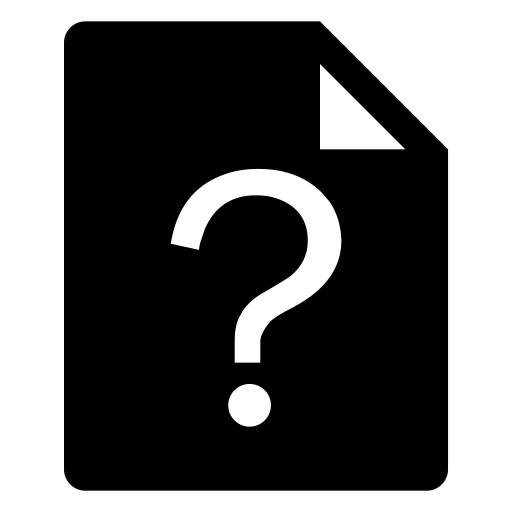
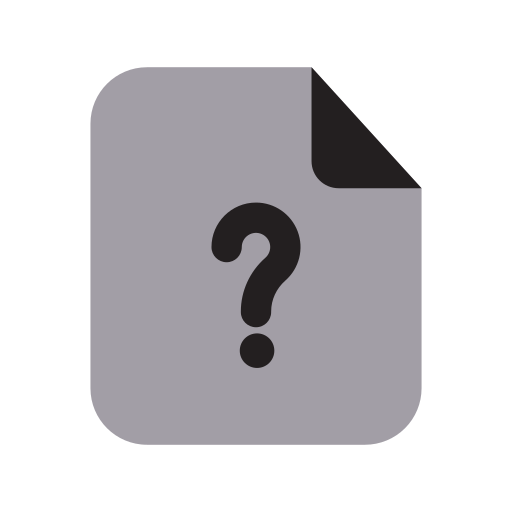
Minor visuals fix
unknown icon
color of IsUser and Error-fill

diff --git a/src/main/resources/js/details.js b/src/main/resources/js/details.js
@@ -206,9 +206,8 @@ const createDetailsUI = ({
       const nameSpan = document.createElement("span");
       nameSpan.textContent = skill.name ?? "";
 
-      view.nameEl.replaceChildren(iconImg, document.createTextNode("   "), nameSpan);
-
       //view.nameEl.textContent = skill.name ?? "";
+      view.nameEl.replaceChildren(iconImg, document.createTextNode(" "), nameSpan);
       view.hitEl.textContent = `${hits}`;
       view.critEl.textContent = `${critRate}%`;
       view.parryEl.textContent = `${parryRate}%`;

diff --git a/src/main/resources/styles.css b/src/main/resources/styles.css
@@ -1,8 +1,8 @@
 :root {
   --row-fill: #1d1e49;
-  --isUser-fill: #61497e;
+  --isUser-fill: #553b75;
   --warning-fill: #46477e;
-  --error-fill: #c24343;
+  --error-fill: #753737;
   --dps: #29ff6f;
   --skill-fill: #29ff6f;
 
